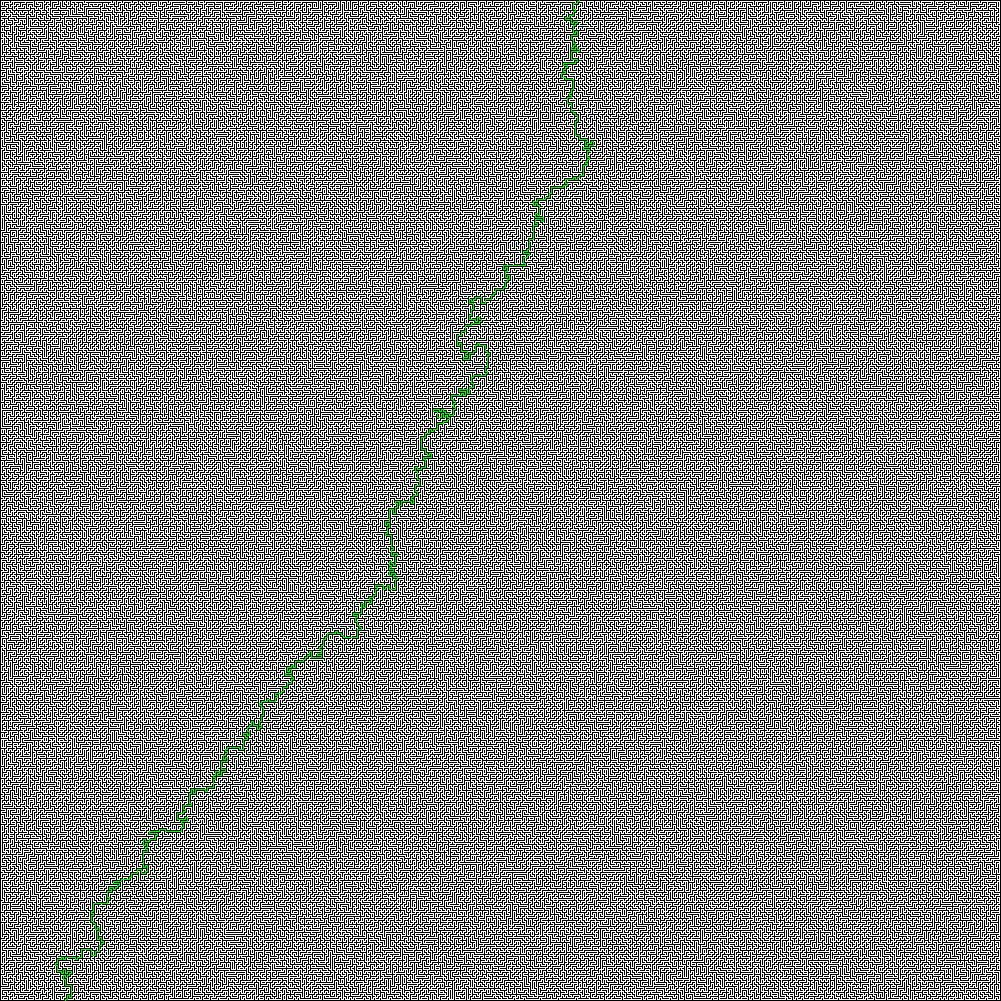
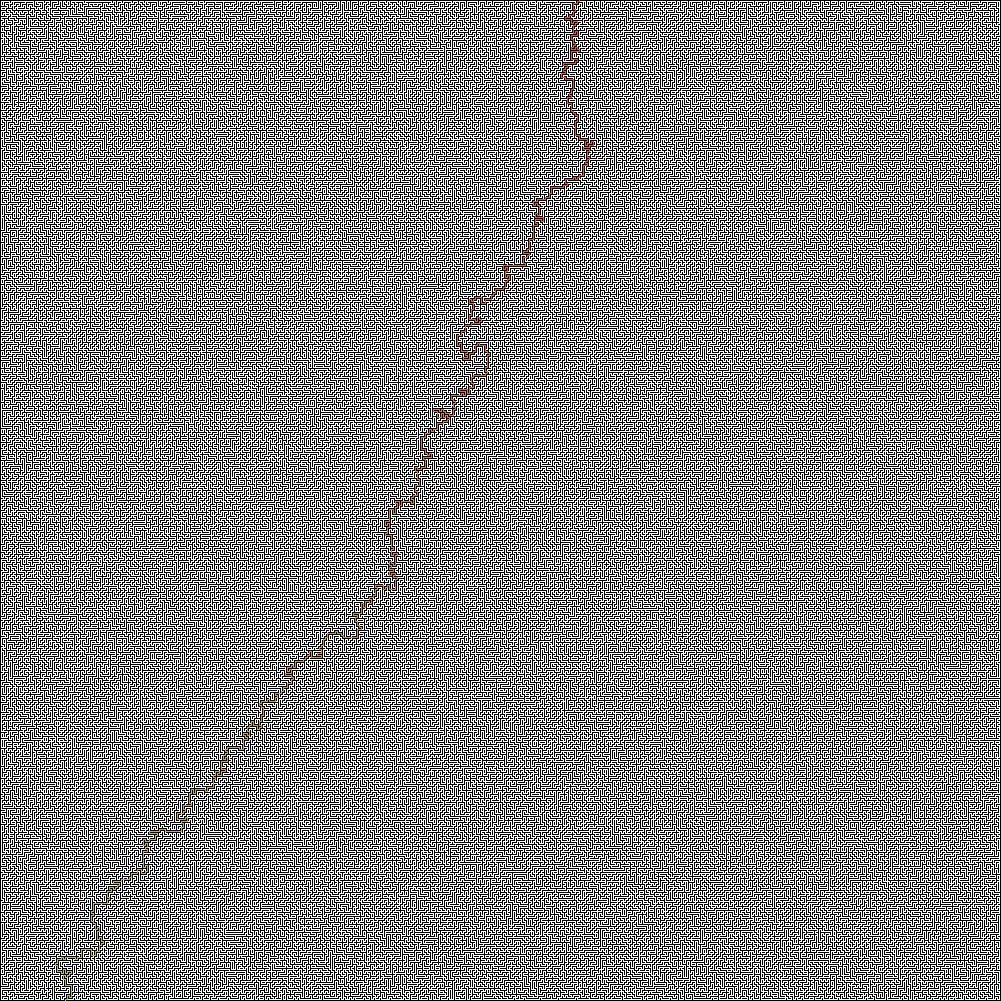
added color to examples

diff --git a/maze_solver.py b/maze_solver.py
@@ -28,43 +28,11 @@ def maze_solver(image, algo):
         raise CannotCompleteError(algo, path)
 
     start_time = time.time()
-    large_image = enlarge_image(draw(image, path))
+    large_image = enlarge_image(draw(image, path, algo))
     enlarging_time = time.time() - start_time
     print(f"Drawing the solution & Enlarging the image: {enlarging_time} seconds.\n")
 
     return large_image
-
-
-def draw(image, path):
-    image_array = np.array(image.convert('RGB')).astype(np.uint8)
-
-    solution_color = [0, 255, 0]
-    backtracking_color = [0, 64, 0]
-
-    unique, backtracking = find_backtracking(path)
-
-    prev = path[0]
-    for position in path:
-        y, x = position
-        y_prev, x_prev = prev
-
-        min_y, max_y = min(y, y_prev), max(y, y_prev)
-        min_x, max_x = min(x, x_prev), max(x, x_prev)
-
-        color = None
-
-        if position in unique:
-            if prev not in backtracking:
-                color = solution_color
-        else:
-            color = backtracking_color
-
-        if color is not None:
-            image_array[min_y:max_y + 1, min_x:max_x + 1] = color
-
-        prev = position
-
-    return Im.fromarray(image_array)
 
 
 def find_backtracking(path):
@@ -118,6 +86,63 @@ def find_backtracking(path):
                     backtracking.append(curr)
 
     return unique, backtracking
+
+
+def calculate_color(i, length, algo):
+    solution_color = [0, 255, 0]        # default
+    backtracking_color = [0, 64, 0]     # default
+
+    if algo == "breadth first search" or algo == "bfs":
+        scaler = int((i / length) * 50)
+        solution_color = [50 - scaler, 255 - scaler * 3, 150 - scaler * 2]
+    elif algo == "depth first search" or algo == "dfs":
+        scaler = int((i / length) * 50)
+        solution_color = [50 - scaler, 255 - scaler * 3, 50 - scaler]
+    elif algo == "left hand turn" or algo == "lht":
+        scaler = int((i / length) * 50)
+        solution_color = [255 - scaler, 102 - scaler * 2, 178 - scaler * 3.5]
+        backtracking_color = [color / 1.7 for color in solution_color]      # dimmer version of the solution color
+    elif algo == "dijkstra":
+        scaler = int((i / length) * 100)
+        solution_color = [0, 200 - scaler, 200 - scaler]
+    elif algo == "a star":
+        scaler = int((i / length) * 100)
+        solution_color = [204, 204 - scaler, 0]
+
+    return solution_color, backtracking_color
+
+
+
+
+def draw(image, path, algo):
+    image_array = np.array(image.convert('RGB')).astype(np.uint8)
+
+    unique, backtracking = find_backtracking(path)
+
+    prev = path[0]
+    for i, position in enumerate(path):
+        solution_color, backtracking_color = calculate_color(i, len(path), algo)
+
+        y, x = position
+        y_prev, x_prev = prev
+
+        min_y, max_y = min(y, y_prev), max(y, y_prev)
+        min_x, max_x = min(x, x_prev), max(x, x_prev)
+
+        color = None
+
+        if position in unique:
+            if prev not in backtracking:
+                color = solution_color
+        else:
+            color = backtracking_color
+
+        if color is not None:
+            image_array[min_y:max_y + 1, min_x:max_x + 1] = color
+
+        prev = position
+
+    return Im.fromarray(image_array)
 
 
 def enlarge_image(image):

diff --git a/main.py b/main.py
@@ -54,10 +54,12 @@ def main():
         if not os.path.exists(output_folder):
             os.makedirs(output_folder)
 
-        output_path = os.path.join(output_folder, f"{image_name} - {chosen_algo}.jpg")
+        output_path = os.path.join(output_folder, f"{image_name.title()} - {chosen_algo.title()}.jpg")
 
         solved_maze.save(output_path, format="JPEG")
         print(f"Solution saved to {output_path}.")
+
+    solved_maze.show()
 
 
 if __name__ == '__main__':
